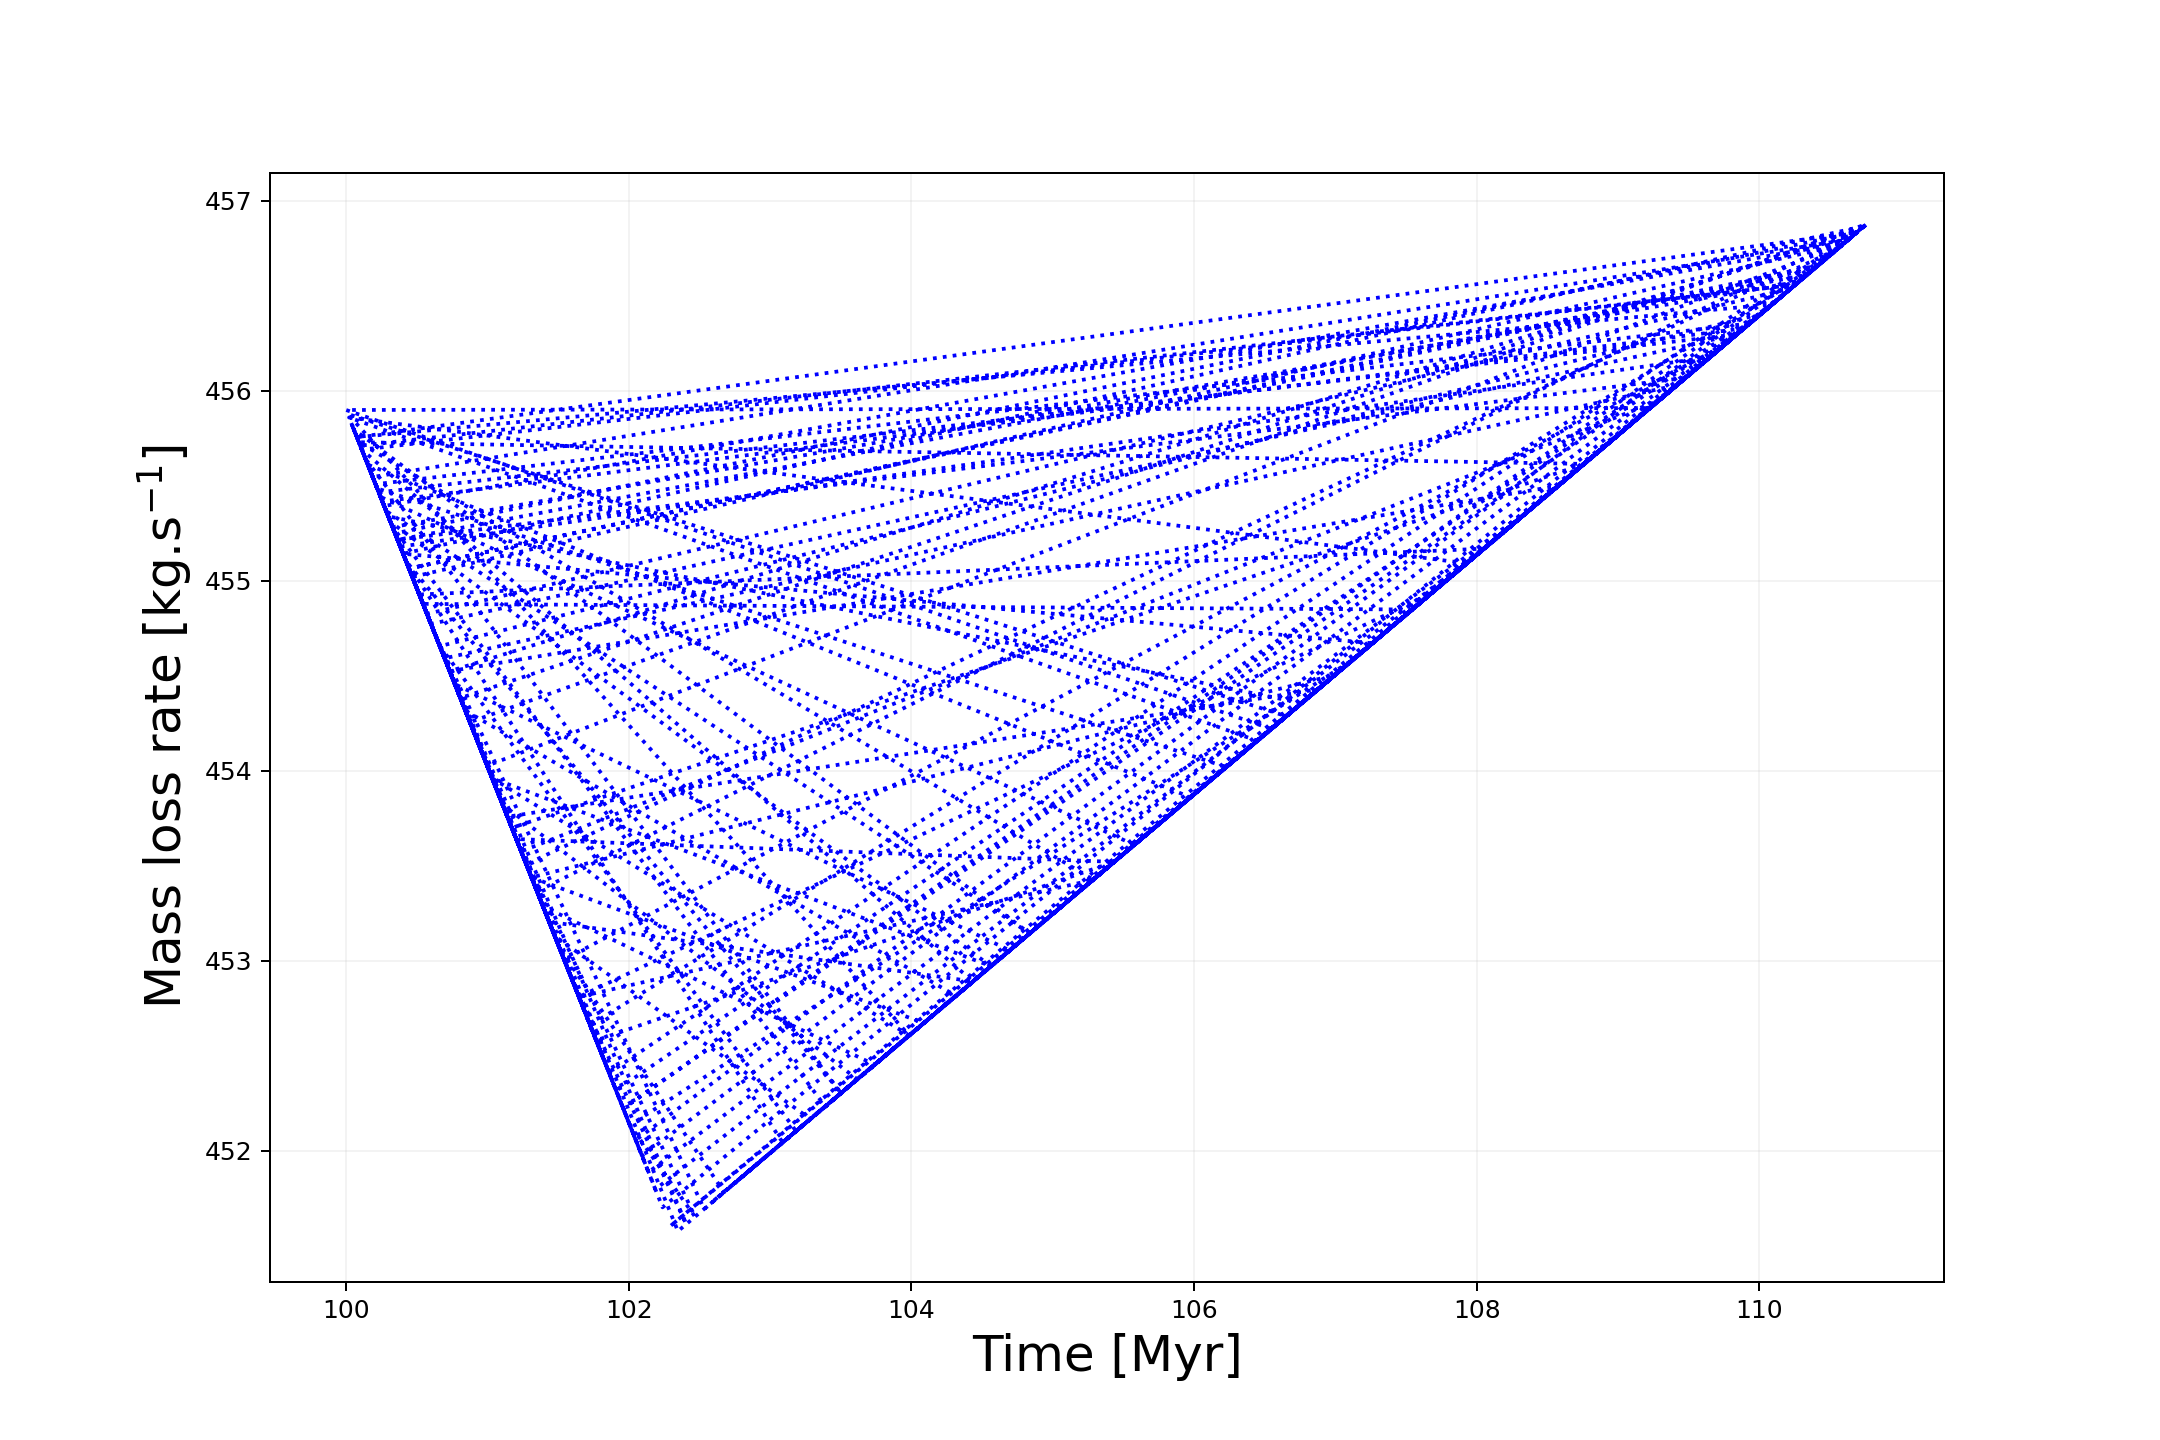
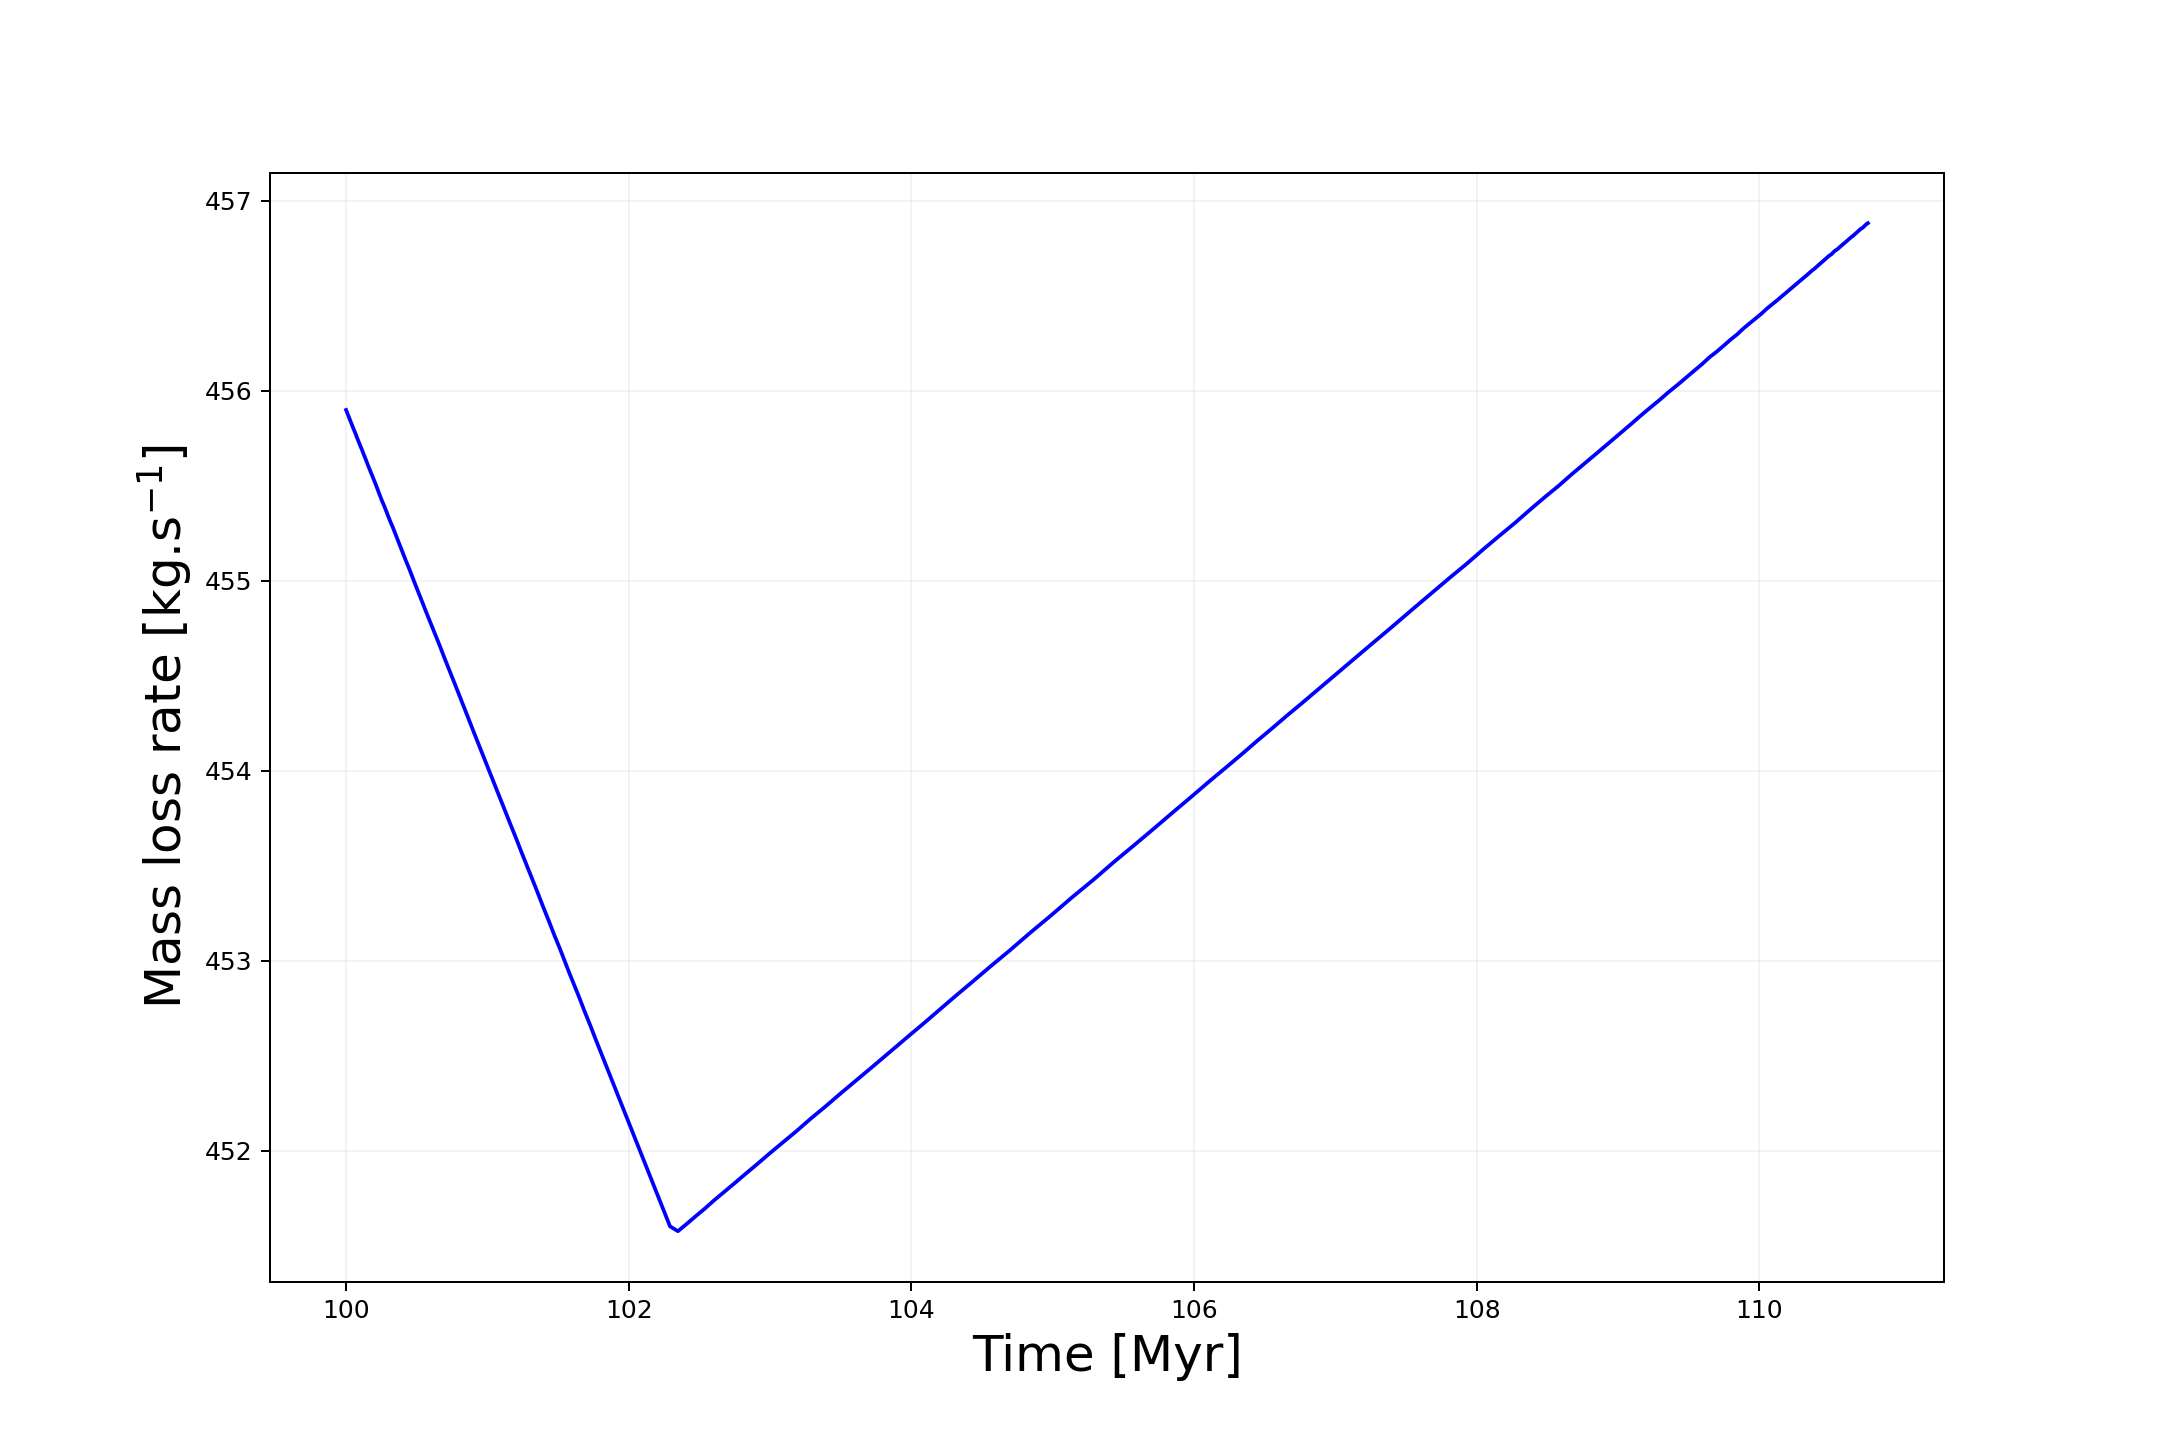
main_draft.py : open XUV files in the correct order

Changed region(s): [[0.1551, 0.1562, 0.8685, 0.8438]]

diff --git a/main_draft.py b/main_draft.py
@@ -29,11 +29,15 @@ def open_flux_files(path) :
 
 files = os.listdir('data/XUV_tracks_from_proteus/')                                 # Open all the files in this directory
 sflux_files = [file for file in files if file.endswith('.sflux')]                   # Select only the '.sflux' files
-epsilon = 0.15                                                                      # Efficiency parameter for escape
+def extract_number(file_name):                                                      # Function to sort the files names in the increasing order -> I can put this function in a document_handler.py file later ?
+    number_part = file_name.split('.')[0]                                           # Split the filename at the dot and take the first part (the number)
+    return int(number_part)
+sorted_files = sorted(sflux_files, key=extract_number)                              # Sort the files using the custom key
 
+epsilon = 0.15                                                                      # Efficiency parameter for escape
 time_flux_escape = []                                                               # Create a list with 3 columns : time_step, XUV_flux, Mass_loss_rate_EL
-for file in sflux_files:
-    XUV_flux, time_step = open_flux_files('data/XUV_tracks_from_proteus/'+file) 
+for i in sorted_files:
+    XUV_flux, time_step = open_flux_files('data/XUV_tracks_from_proteus/'+i) 
     mass_loss_rate = dMdt_EL_Lopez2012('yes',a_earth*au2m,e_earth,Me,Ms,epsilon,Re,XUV_flux)
     time_flux_escape.append([time_step, XUV_flux, mass_loss_rate])
 
@@ -43,17 +47,32 @@ df = pd.DataFrame(time_flux_escape, columns = ['Time step [Myr]',               
 
 # __________________________ Plots __________________________ #  
 
-plt.figure(figsize=(12,8))                                                          # Plot : Mass loss rate vs time 
-plt.plot(df['Time step [Myr]'],df['XUV Flux [W.m-2]'], ls=':', color = 'green', label = 'Mors')
+plt.figure(figsize=(12,8))                                                          # Plot : XUV flux vs time 
+plt.plot(df['Time step [Myr]'],df['XUV Flux [W.m-2]'], ls='-', color = 'green', label = 'Mors')
 plt.grid(alpha=0.15)
 plt.legend()
 plt.xlabel('Time [Myr]', fontsize=20)
 plt.ylabel('Planetary incident flux F$_{XUV}$ [W.m$^{2}$] at 1 AU', fontsize=20)
 plt.savefig('plots/test_building_main/test_flux_from_proteus.png',dpi=180)
- 
-plt.figure(figsize=(12,8))                                                          # Plot : Mass loss rate vs time 
-plt.plot(df['Time step [Myr]'],df['Mass loss rate (EL) [kg.s-1]'], ls=':', color = 'blue')
+
+plt.figure(figsize=(12,8))                                                          # Plot : XUV flux vs time - loglog scale
+plt.loglog(df['Time step [Myr]'],df['XUV Flux [W.m-2]'], ls='-', color = 'green', label = 'Mors')
+plt.grid(alpha=0.15)
+plt.legend()
+plt.xlabel('Time [Myr]', fontsize=20)
+plt.ylabel('Planetary incident flux F$_{XUV}$ [W.m$^{2}$] at 1 AU', fontsize=20)
+plt.savefig('plots/test_building_main/test_flux_from_proteus_loglog.png',dpi=180)
+
+plt.figure(figsize=(12,8))                                                          # Plot : Mass loss rate vs time - loglog scale
+plt.plot(df['Time step [Myr]'],df['Mass loss rate (EL) [kg.s-1]'], ls='-', color = 'blue')
 plt.grid(alpha=0.15)
 plt.xlabel('Time [Myr]', fontsize=20)
 plt.ylabel('Mass loss rate [kg.s$^{-1}$]', fontsize=20)
 plt.savefig('plots/test_building_main/test_MLR_computation_from_proteus.png',dpi=180)
+ 
+plt.figure(figsize=(12,8))                                                          # Plot : Mass loss rate vs time - loglog scale
+plt.loglog(df['Time step [Myr]'],df['Mass loss rate (EL) [kg.s-1]'], ls='-', color = 'blue')
+plt.grid(alpha=0.15)
+plt.xlabel('Time [Myr]', fontsize=20)
+plt.ylabel('Mass loss rate [kg.s$^{-1}$]', fontsize=20)
+plt.savefig('plots/test_building_main/test_MLR_computation_from_proteus_loglog.png',dpi=180)
